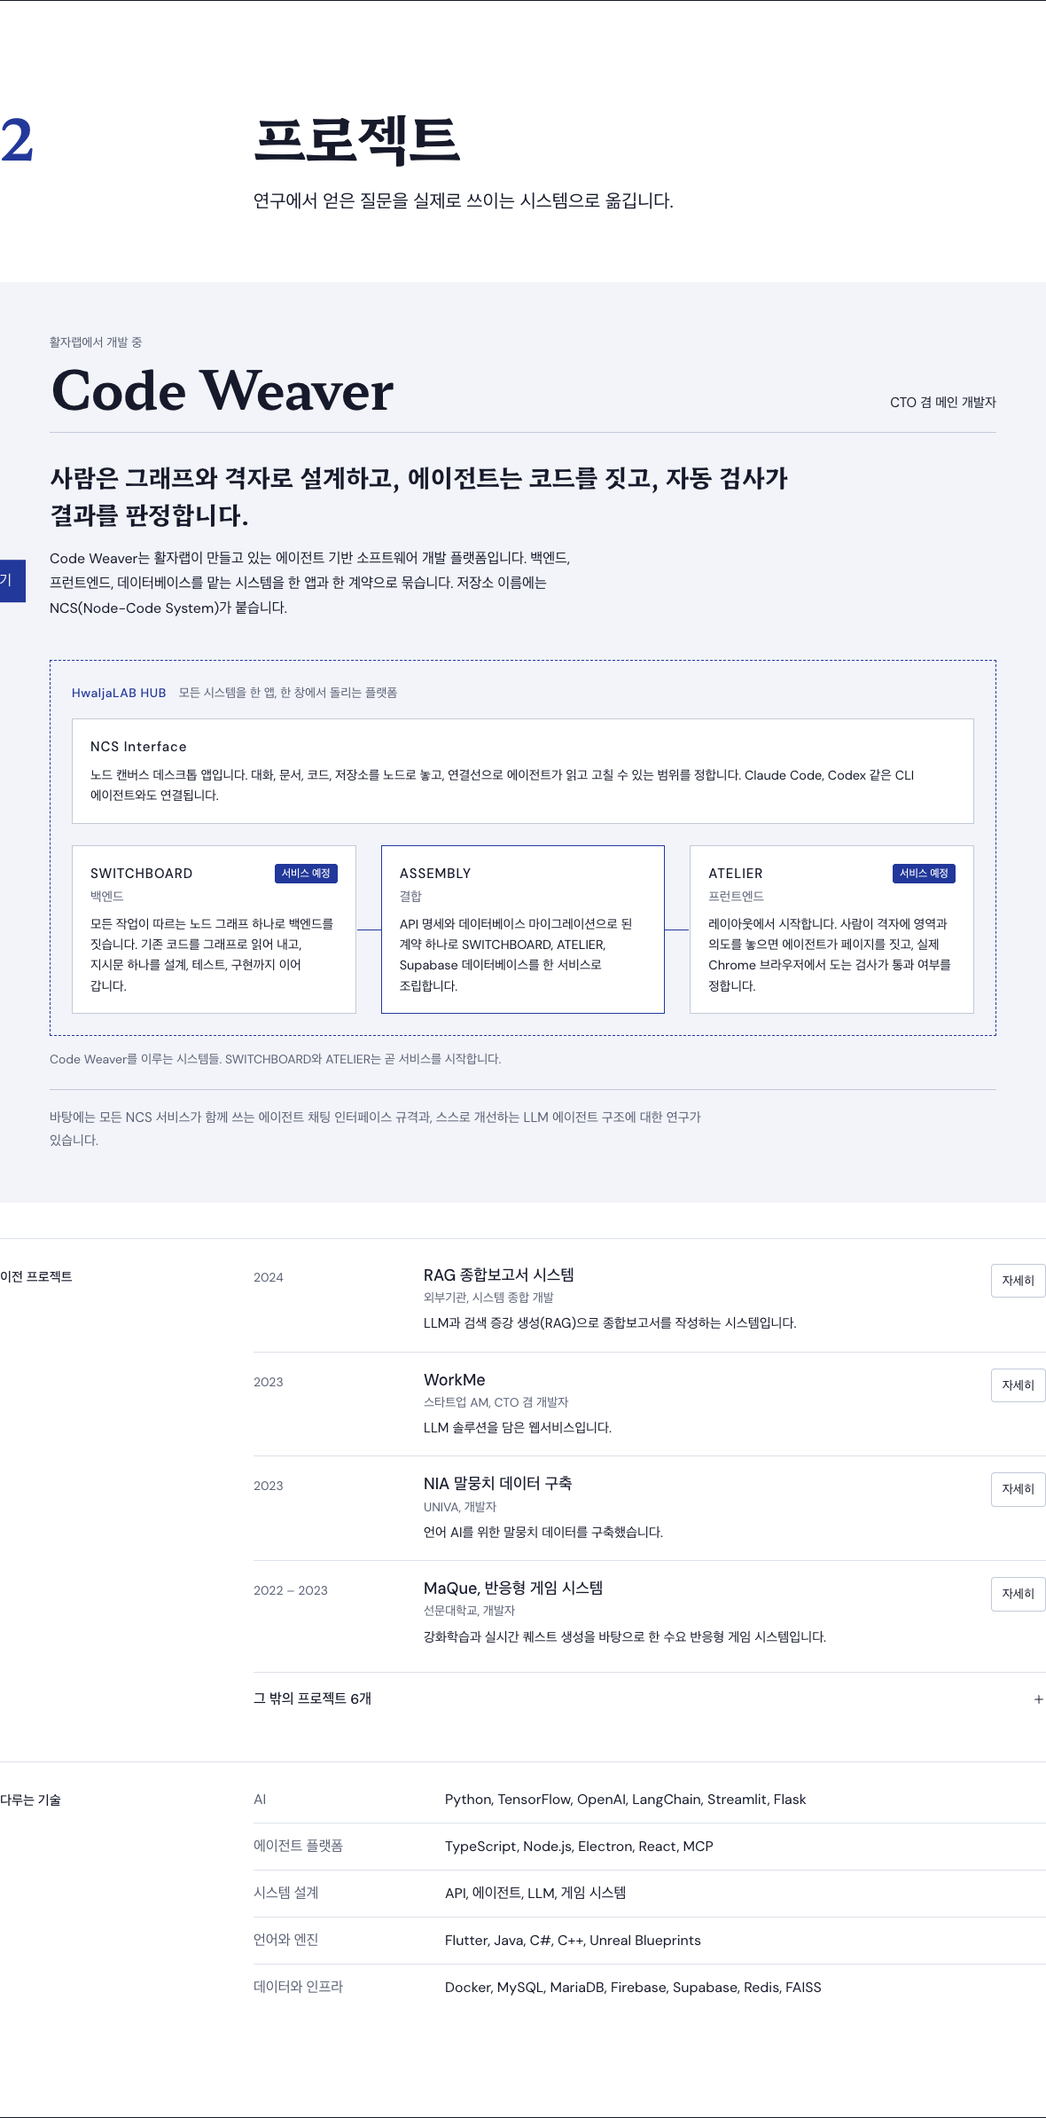
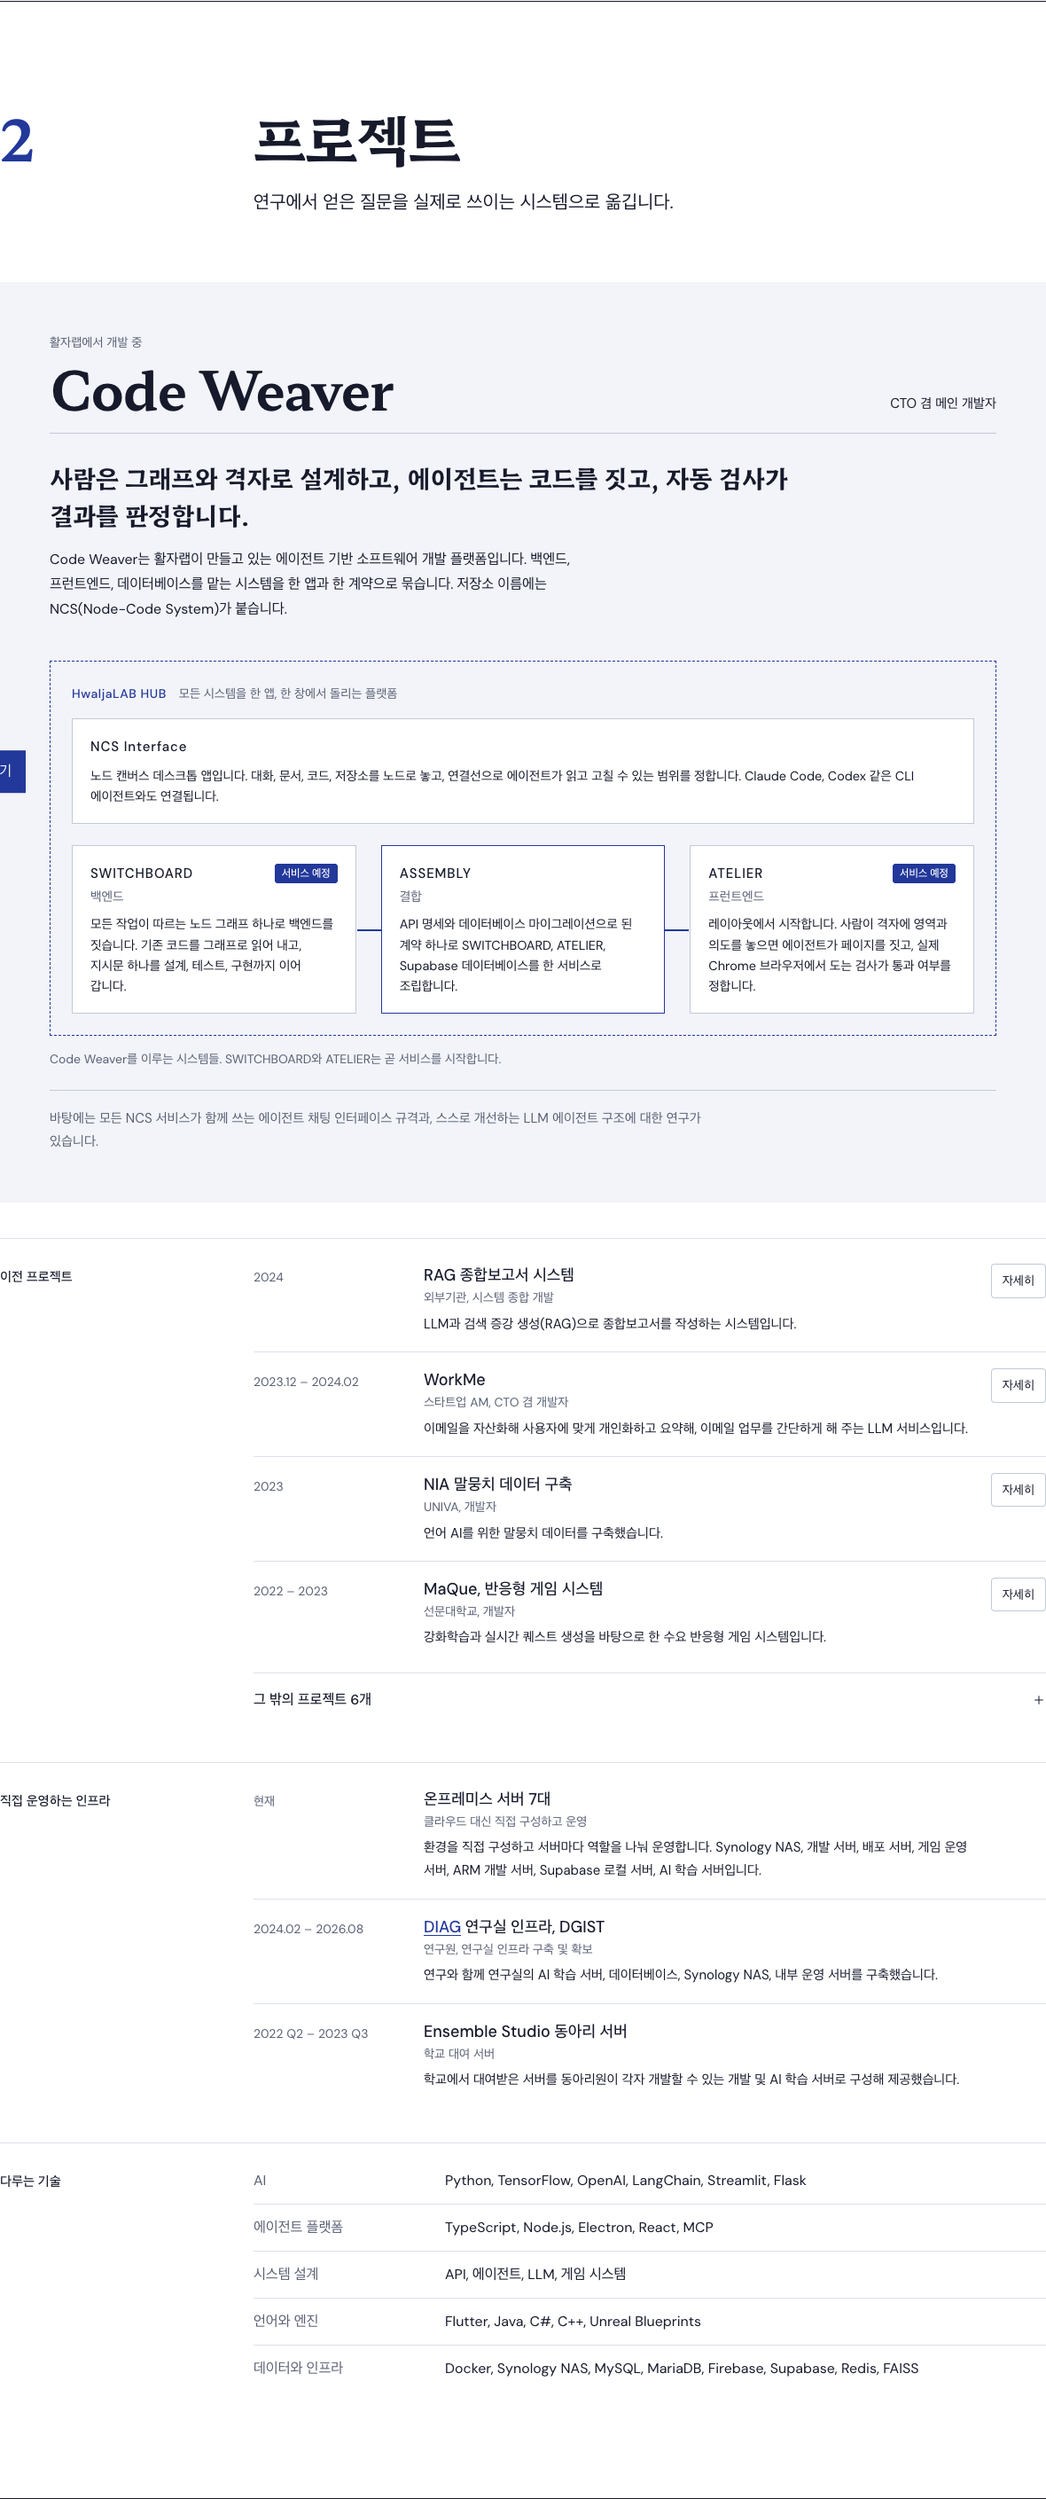
Add self-hosted infrastructure, DIAG lab research, and pending papers
- New "Self-hosted infrastructure" group: seven on-premises servers, DIAG lab
  infrastructure, and Ensemble Studio club servers
- DGIST degree links to the DIAG lab and notes the research role
- Two pending publications; test now expects four
- WorkMe described as email assetization and summarization, AM dated
  2023.12 – 2024.02; HwaljaLab dated from 2025.11
- Coding instructor credited to 코딩클럽로봇클럽
- AX-Data materials link removed along with its unused styles
- Preview screenshots regenerated

diff --git a/index.html b/index.html
@@ -85,6 +85,22 @@
           <h3 class="group-label" data-en="Publications" data-ko="논문">Publications</h3>
           <ol class="rows">
             <li class="row publication">
+              <span class="row-when">Pending</span>
+              <div class="row-body">
+                <p class="row-meta" data-en="First author" data-ko="1저자">First author</p>
+                <h4 lang="ko">LLM을 통한 오픈월드 시스템 개선 방안 연구</h4>
+                <p class="row-text translation" data-en="Improving open-world game systems with large language models." data-ko="">Improving open-world game systems with large language models.</p>
+              </div>
+            </li>
+            <li class="row publication">
+              <span class="row-when">Pending</span>
+              <div class="row-body">
+                <p class="row-meta" data-en="Co-author, research participant in charge of implementation" data-ko="공동저자, 연구 참여자 (구현 담당)">Co-author, research participant in charge of implementation</p>
+                <h4 lang="ko">XR 기반 도슨트 NPC 최적화 기법</h4>
+                <p class="row-text translation" data-en="Optimization techniques for XR-based docent NPCs." data-ko="">Optimization techniques for XR-based docent NPCs.</p>
+              </div>
+            </li>
+            <li class="row publication">
               <span class="row-when">2025</span>
               <div class="row-body">
                 <p class="row-meta" data-en="HCI Korea" data-ko="한국HCI학회">HCI Korea</p>
@@ -113,7 +129,7 @@
               <div class="row-body">
                 <h4>DGIST</h4>
                 <p class="row-meta" data-en="M.S., Electrical Engineering & Computer Science" data-ko="전기전자컴퓨터공학과 석사">M.S., Electrical Engineering & Computer Science</p>
-                <p class="row-text" data-en="Advisor: Jean Y. Song" data-ko="지도교수: Jean Y. Song">Advisor: Jean Y. Song</p>
+                <p class="row-text"><a href="https://diag.kr" target="_blank" rel="noopener noreferrer">DIAG</a> <span data-en="lab researcher, working on HCI and AI research. Advisor: Jean Y. Song" data-ko="연구실 연구원으로 HCI·AI 연구를 수행했습니다. 지도교수: Jean Y. Song">lab researcher, working on HCI and AI research. Advisor: Jean Y. Song</span></p>
               </div>
             </li>
             <li class="row">
@@ -192,11 +208,11 @@
                 <button class="row-more" type="button" data-project="rag" aria-label="RAG Report System details" data-aria-en="RAG Report System details" data-aria-ko="RAG 종합보고서 시스템 자세히 보기"><span data-en="Details" data-ko="자세히">Details</span></button>
               </li>
               <li class="row">
-                <span class="row-when">2023</span>
+                <span class="row-when">2023.12 – 2024.02</span>
                 <div class="row-body">
                   <h4>WorkMe</h4>
                   <p class="row-meta" data-en="Startup AM, CTO & developer" data-ko="스타트업 AM, CTO 겸 개발자">Startup AM, CTO & developer</p>
-                  <p class="row-text" data-en="An LLM solution delivered as a web service." data-ko="LLM 솔루션을 담은 웹서비스입니다.">An LLM solution delivered as a web service.</p>
+                  <p class="row-text" data-en="An LLM service that turns email into an asset, personalizing and summarizing it to simplify email work." data-ko="이메일을 자산화해 사용자에 맞게 개인화하고 요약해, 이메일 업무를 간단하게 해 주는 LLM 서비스입니다.">An LLM service that turns email into an asset, personalizing and summarizing it to simplify email work.</p>
                 </div>
                 <button class="row-more" type="button" data-project="workme" aria-label="WorkMe details" data-aria-en="WorkMe details" data-aria-ko="WorkMe 자세히 보기"><span data-en="Details" data-ko="자세히">Details</span></button>
               </li>
@@ -234,13 +250,43 @@
         </div>
 
         <div class="group">
+          <h3 class="group-label" data-en="Self-hosted infrastructure" data-ko="직접 운영하는 인프라">Self-hosted infrastructure</h3>
+          <ol class="rows">
+            <li class="row">
+              <span class="row-when" data-en="Now" data-ko="현재">Now</span>
+              <div class="row-body">
+                <h4 data-en="Seven on-premises servers" data-ko="온프레미스 서버 7대">Seven on-premises servers</h4>
+                <p class="row-meta" data-en="Built and run myself, instead of the cloud" data-ko="클라우드 대신 직접 구성하고 운영">Built and run myself, instead of the cloud</p>
+                <p class="row-text" data-en="I set up each environment myself and run every server for its own role: a Synology NAS, a development server, a deployment server, a game operations server, an ARM development server, a local Supabase server, and an AI training server." data-ko="환경을 직접 구성하고 서버마다 역할을 나눠 운영합니다. Synology NAS, 개발 서버, 배포 서버, 게임 운영 서버, ARM 개발 서버, Supabase 로컬 서버, AI 학습 서버입니다.">I set up each environment myself and run every server for its own role: a Synology NAS, a development server, a deployment server, a game operations server, an ARM development server, a local Supabase server, and an AI training server.</p>
+              </div>
+            </li>
+            <li class="row">
+              <span class="row-when">2024.02 – 2026.08</span>
+              <div class="row-body">
+                <h4><a href="https://diag.kr" target="_blank" rel="noopener noreferrer">DIAG</a> <span data-en="lab infrastructure, DGIST" data-ko="연구실 인프라, DGIST">lab infrastructure, DGIST</span></h4>
+                <p class="row-meta" data-en="Researcher, built and secured the lab's infrastructure" data-ko="연구원, 연구실 인프라 구축 및 확보">Researcher, built and secured the lab's infrastructure</p>
+                <p class="row-text" data-en="Alongside my research, I set up the lab's AI training server, database, Synology NAS, and internal operations server." data-ko="연구와 함께 연구실의 AI 학습 서버, 데이터베이스, Synology NAS, 내부 운영 서버를 구축했습니다.">Alongside my research, I set up the lab's AI training server, database, Synology NAS, and internal operations server.</p>
+              </div>
+            </li>
+            <li class="row">
+              <span class="row-when">2022 Q2 – 2023 Q3</span>
+              <div class="row-body">
+                <h4 data-en="Ensemble Studio club servers" data-ko="Ensemble Studio 동아리 서버">Ensemble Studio club servers</h4>
+                <p class="row-meta" data-en="Servers loaned by the university" data-ko="학교 대여 서버">Servers loaned by the university</p>
+                <p class="row-text" data-en="Turned servers loaned by the university into development and AI training servers that each club member could use on their own." data-ko="학교에서 대여받은 서버를 동아리원이 각자 개발할 수 있는 개발 및 AI 학습 서버로 구성해 제공했습니다.">Turned servers loaned by the university into development and AI training servers that each club member could use on their own.</p>
+              </div>
+            </li>
+          </ol>
+        </div>
+
+        <div class="group">
           <h3 class="group-label" data-en="Toolkit" data-ko="다루는 기술">Toolkit</h3>
           <dl class="toolkit">
             <div><dt data-en="AI" data-ko="AI">AI</dt><dd>Python, TensorFlow, OpenAI, LangChain, Streamlit, Flask</dd></div>
             <div><dt data-en="Agent platforms" data-ko="에이전트 플랫폼">Agent platforms</dt><dd>TypeScript, Node.js, Electron, React, MCP</dd></div>
             <div><dt data-en="System design" data-ko="시스템 설계">System design</dt><dd data-en="API, agent, LLM, and game systems" data-ko="API, 에이전트, LLM, 게임 시스템">API, agent, LLM, and game systems</dd></div>
             <div><dt data-en="Languages and engines" data-ko="언어와 엔진">Languages and engines</dt><dd>Flutter, Java, C#, C++, Unreal Blueprints</dd></div>
-            <div><dt data-en="Data and infrastructure" data-ko="데이터와 인프라">Data and infrastructure</dt><dd>Docker, MySQL, MariaDB, Firebase, Supabase, Redis, FAISS</dd></div>
+            <div><dt data-en="Data and infrastructure" data-ko="데이터와 인프라">Data and infrastructure</dt><dd>Docker, Synology NAS, MySQL, MariaDB, Firebase, Supabase, Redis, FAISS</dd></div>
           </dl>
         </div>
       </section>
@@ -297,20 +343,13 @@
             <li class="row">
               <span class="row-when">2021 Q1 – 2022 Q1</span>
               <div class="row-body">
+                <p class="row-meta" lang="ko">코딩클럽로봇클럽</p>
                 <h4 data-en="Coding instructor" data-ko="코딩 강사">Coding instructor</h4>
               </div>
             </li>
           </ol>
         </div>
 
-        <div class="group">
-          <h3 class="group-label" data-en="Materials" data-ko="교육 자료">Materials</h3>
-          <a class="resource-link" href="https://github.com/raflereak/AX-Data" target="_blank" rel="noopener noreferrer">
-            <span class="resource-name">AX-Data</span>
-            <span class="resource-text" data-en="AX support materials I make myself or with generative AI, published on GitHub." data-ko="직접 또는 생성형 AI로 만든 AX 지원 자료를 GitHub에 공개하고 있습니다.">AX support materials I make myself or with generative AI, published on GitHub.</span>
-            <svg class="icon" aria-hidden="true"><use href="#icon-up-right" /></svg>
-          </a>
-        </div>
       </section>
 
       <section class="chapter wrap" id="activities" aria-labelledby="activities-heading">
@@ -323,7 +362,7 @@
         </header>
 
         <a class="org" href="https://hwaljalab.com" target="_blank" rel="noopener noreferrer" aria-label="HwaljaLab, visit hwaljalab.com (opens in a new tab)" data-aria-en="HwaljaLab, visit hwaljalab.com (opens in a new tab)" data-aria-ko="활자랩 웹사이트 방문 (새 탭)">
-          <span class="org-when" data-en="Now" data-ko="현재">Now</span>
+          <span class="org-when" data-en="2025.11 – now" data-ko="2025.11 – 현재">2025.11 – now</span>
           <span class="org-main">
             <span class="org-name" data-en="HwaljaLab" data-ko="활자랩">HwaljaLab</span>
             <span class="org-role" data-en="CTO & Lead Developer" data-ko="CTO 겸 메인 개발자">CTO & Lead Developer</span>
@@ -370,7 +409,7 @@
             <ul class="activity-list">
               <li>
                 <h4>Ensemble Studio</h4>
-                <p data-en="Founded and led a project and product development club with 124 members." data-ko="프로젝트·프로덕트 개발 동아리를 만들고 이끌었습니다. 회원 124명.">Founded and led a project and product development club with 124 members.</p>
+                <p data-en="Founded and led a project and product development club with 124 members. Ran servers loaned by the university as development and AI training servers for members." data-ko="프로젝트·프로덕트 개발 동아리를 만들고 이끌었습니다. 회원 124명. 학교 대여 서버를 동아리원용 개발 및 AI 학습 서버로 제공했습니다.">Founded and led a project and product development club with 124 members. Ran servers loaned by the university as development and AI training servers for members.</p>
                 <span class="activity-when">2022 Q2 – 2023 Q3</span>
               </li>
             </ul>

diff --git a/src/main.js b/src/main.js
@@ -6,8 +6,8 @@ const projects = {
     ko: { title: 'RAG 종합보고서 시스템', type: 'AI 시스템, 2024', description: '외부기관을 위해 LLM과 검색 증강 생성(RAG)을 활용한 종합보고서 작성 시스템을 개발했습니다. 시스템 종합 개발을 담당했습니다.', facts: [['역할', '시스템 종합 개발'], ['기간', '2024년 2월 – 9월'], ['기관', '외부기관'], ['주요 분야', 'LLM, 검색 증강 생성(RAG), 보고서 작성']] },
   },
   workme: {
-    en: { title: 'WorkMe', type: 'LLM web service, AM', description: 'An LLM solution web service at startup AM. I joined the project as CTO and developer, working on the technology and its implementation.', facts: [['Role', 'CTO & developer'], ['Started', 'December 2023'], ['Organization', 'Startup AM'], ['Focus', 'LLM solutions, web service development']] },
-    ko: { title: 'WorkMe', type: 'LLM 웹서비스, AM', description: '스타트업 AM에서 개발한 LLM 솔루션 웹서비스입니다. CTO 겸 개발자로 참여해 기술과 서비스 구현을 담당했습니다.', facts: [['역할', 'CTO 겸 개발자'], ['시작', '2023년 12월'], ['소속', '스타트업 AM'], ['주요 분야', 'LLM 솔루션, 웹서비스 개발']] },
+    en: { title: 'WorkMe', type: 'LLM web service, AM', description: 'An LLM web service at startup AM that turns email into an asset, personalizing and summarizing it to simplify email work. I joined as CTO and developer, working on the technology and its implementation.', facts: [['Role', 'CTO & developer'], ['Period', 'December 2023 – February 2024'], ['Organization', 'Startup AM'], ['Focus', 'Email assetization, personalization, summarization']] },
+    ko: { title: 'WorkMe', type: 'LLM 웹서비스, AM', description: '스타트업 AM에서 개발한 LLM 웹서비스입니다. 이메일을 자산화해 사용자에 맞게 개인화하고 요약해, 이메일 업무를 간단하게 해 줍니다. CTO 겸 개발자로 참여해 기술과 서비스 구현을 담당했습니다.', facts: [['역할', 'CTO 겸 개발자'], ['기간', '2023년 12월 – 2024년 2월'], ['소속', '스타트업 AM'], ['주요 분야', '이메일 자산화, 개인화, 요약']] },
   },
   corpus: {
     en: { title: 'NIA Corpus Data Project', type: 'Language data, UNIVA', description: 'Participated as a developer in the NIA corpus data construction project at UNIVA.', facts: [['Role', 'Developer'], ['Period', 'June – December 2023'], ['Organization', 'UNIVA'], ['Focus', 'Corpus data construction']] },

diff --git a/src/style.css b/src/style.css
@@ -94,6 +94,7 @@ html[lang=ko] .chapter-lede{line-height:1.75}
 .rows>li{display:grid;grid-template-columns:10.5em minmax(0,1fr) auto;column-gap:24px;padding-block:18px;border-top:1px solid var(--rule)}
 .rows>li:first-child{padding-top:0;border-top:0}
 .row-when{padding-top:3px;font-size:14px;color:var(--muted);font-variant-numeric:tabular-nums;white-space:nowrap}
+.row-body a{color:var(--indigo);text-decoration:underline;text-underline-offset:3px}
 .row-body h4{font-size:18px;font-weight:500;line-height:1.45}
 .row-meta,.row-authors{font-size:14px;color:var(--muted)}
 .row-text{max-width:42em;margin-top:4px;font-size:15px}
@@ -143,11 +144,6 @@ html[lang=ko] .feature-statement{line-height:1.5}
 .toolkit dt{color:var(--muted)}
 
 /* Teaching */
-.resource-link{display:grid;grid-template-columns:auto minmax(0,1fr) auto;align-items:baseline;gap:16px;padding:18px 20px;border:1px solid var(--rule-strong);transition:border-color .2s}
-.resource-link:hover{border-color:var(--indigo)}
-.resource-link:hover .icon{transform:translate(2px,-2px)}
-.resource-name{font-weight:600}
-.resource-text{font-size:15px;color:var(--muted)}
 
 /* Activities */
 .org{display:grid;grid-template-columns:var(--label) minmax(0,1fr) minmax(0,1fr);gap:12px var(--gap);align-items:start;padding-block:clamp(24px,3.4vw,40px);border-block:1px solid var(--rule)}
@@ -229,9 +225,7 @@ dialog::backdrop{background:rgb(22 26 43 / 62%)}
   .contents a{grid-template-columns:1.6em minmax(0,1fr);row-gap:2px;padding-inline:4px}
   .contents-note{grid-column:2}
   .toolkit>div{grid-template-columns:1fr;gap:2px}
-  .resource-link{grid-template-columns:minmax(0,1fr) auto}
-  .resource-text{grid-column:1/-1;grid-row:2}
-  .dialog-shell{padding:44px 22px 26px}
+      .dialog-shell{padding:44px 22px 26px}
   .dialog-shell dl>div{grid-template-columns:84px minmax(0,1fr);gap:10px}
 }
 @media (max-width:420px){

diff --git a/tests/portfolio.spec.js b/tests/portfolio.spec.js
@@ -24,7 +24,7 @@ test('presents the four sections and the current role without runtime errors', a
   await expect(page.locator('.org')).toHaveAttribute('target', '_blank');
   await expect(page.getByRole('heading', { name: 'Student Startup Teams 300+ (U300+)', exact: true })).toBeVisible();
   await expect(page.getByRole('heading', { name: 'DGIST', exact: true })).toBeVisible();
-  await expect(page.locator('.publication')).toHaveCount(2);
+  await expect(page.locator('.publication')).toHaveCount(4);
   expect(await page.evaluate(() => document.fonts.check('650 32px Hahmlet', '활자랩'))).toBe(true);
   expect(errors).toEqual([]);
 });

diff --git a/README.md b/README.md
@@ -21,7 +21,7 @@ The page reads like a typeset book, a nod to HwaljaLab (활자, movable type): a
 
 1. **Research**: interests, publications, and degrees.
 2. **Projects**: Code Weaver, then earlier projects, an archive, and the toolkit.
-3. **Teaching**: 2026 corporate AX courses, earlier SW and AI teaching, and the public AX-Data materials.
+3. **Teaching**: 2026 corporate AX courses, and earlier SW and AI teaching.
 4. **Activities**: HwaljaLab, startup programs, awards, and community.
 
 A colophon at the end holds contact details.
@@ -31,7 +31,7 @@ A colophon at the end holds contact details.
 - The supplied `cv (2).pdf` is the source for degrees, research, publications, skills, community, awards, earlier projects, and earlier teaching. The site no longer offers the CV for download.
 - The site owner supplied the **HwaljaLab CTO & Lead Developer** role, the 2026 AX courses, U300+, Asan Doers, and POSCO Texcore. Companies P, H, and N are named the way the owner named them. No dates are given where the owner gave none.
 - **Code Weaver** is HwaljaLab's agent development platform, built in the NCS repositories. Its descriptions summarize those repositories' READMEs: HwaljaLAB HUB, NCS Interface, SWITCHBOARD, ATELIER, ASSEMBLY, the NCS chat-interface spec, and the NCS agent-architecture research. The repositories are private, so the site does not link to them. SWITCHBOARD and ATELIER are marked "launching soon" at the owner's word.
-- WorkMe is attributed to AM, as in the CV. Its start date is retained without claiming its present status or an affiliation with HwaljaLab.
+- WorkMe is attributed to AM, as in the CV. AM ran from December 2023 to February 2024 and is not affiliated with HwaljaLab, which started in November 2025.
 - Fonts are served locally. No analytics, APIs, tracking, or server-side services are used.
 
 ## Design
